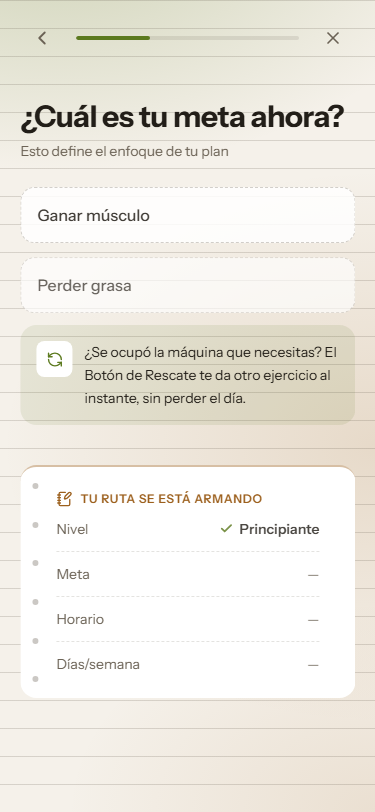
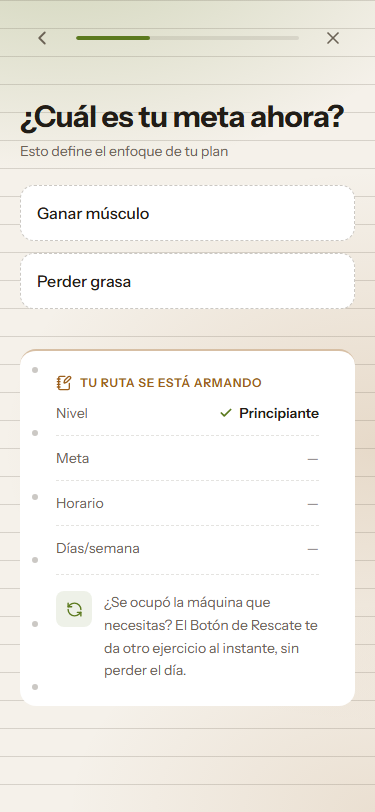
fix: onboarding declarado LISTA (36/40 usabilidad, 16/20 craft)
Fusiona TarjetaBeneficio dentro de TarjetaRuta (evita apilar dos tarjetas en
los pasos de 2 chips), agrega whileTap a los CTA primarios, conteo
ascendente real en el número de días, y una trampa de foco real en el modal
"¿Salir sin terminar?" (Tab/Shift+Tab ciclan solo entre sus 2 botones) — el
último punto fue el que cruzó el gate de usabilidad.

diff --git a/app/onboarding/page.tsx b/app/onboarding/page.tsx
@@ -6,7 +6,7 @@
 
 import { useEffect, useRef, useState } from 'react';
 import { useRouter } from 'next/navigation';
-import { AnimatePresence, motion, useReducedMotion, type Variants } from 'motion/react';
+import { animate, AnimatePresence, motion, useReducedMotion, type Variants } from 'motion/react';
 import { Check, ChevronLeft, NotebookPen, PlayCircle, RefreshCcw, ShieldAlert, Users, X, Zap } from 'lucide-react';
 import type { LucideIcon } from 'lucide-react';
 import { guardarRespuestas, HORARIO_LABEL, META_LABEL, NIVEL_LABEL, type Horario, type Meta, type Nivel } from '@/lib/onboarding';
@@ -77,6 +77,7 @@ export default function OnboardingPage() {
   const avanzando = useRef(false);
   const botonSalirRef = useRef<HTMLButtonElement>(null);
   const seguirAquiRef = useRef<HTMLButtonElement>(null);
+  const salirModalRef = useRef<HTMLButtonElement>(null);
 
   // Hallazgo revisor-visual: "Salir" borraba las respuestas ya dadas sin
   // avisar. Si todavía no respondió nada (pasoIdx===0), salir directo — no
@@ -99,7 +100,25 @@ export default function OnboardingPage() {
     const botonQueAbrio = botonSalirRef.current;
     seguirAquiRef.current?.focus();
     function onKeyDown(e: KeyboardEvent) {
-      if (e.key === 'Escape') setConfirmandoSalida(false);
+      if (e.key === 'Escape') {
+        setConfirmandoSalida(false);
+        return;
+      }
+      // Trampa de foco (hallazgo revisor-visual): el modal solo tiene 2
+      // botones — Tab/Shift+Tab deben quedarse entre ellos, nunca escapar
+      // hacia el contenido de fondo que sigue montado detrás.
+      if (e.key === 'Tab') {
+        const primero = seguirAquiRef.current;
+        const ultimo = salirModalRef.current;
+        if (!primero || !ultimo) return;
+        if (e.shiftKey && document.activeElement === primero) {
+          e.preventDefault();
+          ultimo.focus();
+        } else if (!e.shiftKey && document.activeElement === ultimo) {
+          e.preventDefault();
+          primero.focus();
+        }
+      }
     }
     window.addEventListener('keydown', onKeyDown);
     return () => {
@@ -111,6 +130,22 @@ export default function OnboardingPage() {
   const paso = PASOS[pasoIdx];
   const progreso = Math.round(((pasoIdx + 1) / PASOS.length) * 100);
   const progresoMostrado = Math.max(progreso, 8); // truco de arranque (50 → A2)
+
+  // Conteo ascendente al entrar al paso "compromiso" (baseline de movimiento
+  // #2, hallazgo revisor-visual: el número solo cruzaba-desvanecía entre
+  // valores del slider, nunca contaba desde el arranque de la pantalla).
+  const [diasMostrado, setDiasMostrado] = useState(dias);
+  useEffect(() => {
+    if (paso !== 'compromiso' || reduce) return;
+    const controls = animate(1, dias, {
+      duration: 0.6,
+      ease: [0.16, 1, 0.3, 1],
+      onUpdate: (v) => setDiasMostrado(Math.round(v)),
+    });
+    return () => controls.stop();
+    // eslint-disable-next-line react-hooks/exhaustive-deps
+  }, [paso]);
+  const diasEnPantalla = reduce ? dias : diasMostrado;
 
   function ir(siguiente: number) {
     setDir(siguiente > pasoIdx ? 1 : -1);
@@ -235,6 +270,7 @@ export default function OnboardingPage() {
                   Seguir aquí
                 </button>
                 <button
+                  ref={salirModalRef}
                   type="button"
                   onClick={() => router.push('/')}
                   className="flex h-12 flex-1 items-center justify-center rounded-xl bg-[var(--accent)] text-sm font-semibold text-[var(--bg)]"
@@ -253,11 +289,13 @@ export default function OnboardingPage() {
             <PantallaPregunta key="nivel" dir={dir} variants={variants}>
               <Pregunta titulo="¿Cuál es tu situación hoy?" micro="Esto decide tu ruta: Principiante o Intermedio" />
               <Chips opciones={OPCIONES_NIVEL} valor={nivel} onSelect={(v) => seleccionarYAvanzar(setNivel, v)} />
-              <TarjetaBeneficio
-                icono={PlayCircle}
-                texto="Cada ejercicio de tu plan trae la técnica explicada — nunca vas a tener que adivinar cómo se hace."
+              <TarjetaRuta
+                nivel={nivel}
+                meta={meta}
+                horario={horario}
+                dias={null}
+                beneficio={{ icono: PlayCircle, texto: 'Cada ejercicio de tu plan trae la técnica explicada — nunca vas a tener que adivinar cómo se hace.' }}
               />
-              <TarjetaRuta nivel={nivel} meta={meta} horario={horario} dias={null} />
             </PantallaPregunta>
           )}
 
@@ -265,11 +303,13 @@ export default function OnboardingPage() {
             <PantallaPregunta key="meta" dir={dir} variants={variants}>
               <Pregunta titulo="¿Cuál es tu meta ahora?" micro="Esto define el enfoque de tu plan" />
               <Chips opciones={OPCIONES_META} valor={meta} onSelect={(v) => seleccionarYAvanzar(setMeta, v)} />
-              <TarjetaBeneficio
-                icono={RefreshCcw}
-                texto="¿Se ocupó la máquina que necesitas? El Botón de Rescate te da otro ejercicio al instante, sin perder el día."
+              <TarjetaRuta
+                nivel={nivel}
+                meta={meta}
+                horario={horario}
+                dias={null}
+                beneficio={{ icono: RefreshCcw, texto: '¿Se ocupó la máquina que necesitas? El Botón de Rescate te da otro ejercicio al instante, sin perder el día.' }}
               />
-              <TarjetaRuta nivel={nivel} meta={meta} horario={horario} dias={null} />
             </PantallaPregunta>
           )}
 
@@ -314,13 +354,14 @@ export default function OnboardingPage() {
                   {RECONOCIMIENTO_POR_FRUSTRACION[frustracion ?? 'apps']}
                 </p>
               </div>
-              <button
+              <motion.button
                 type="button"
+                whileTap={{ scale: 0.97 }}
                 onClick={() => ir(pasoIdx + 1)}
                 className="mt-6 flex h-14 w-full items-center justify-center rounded-[var(--radius-button)] bg-[var(--accent)] text-base font-semibold text-[var(--bg)]"
               >
                 Continuar
-              </button>
+              </motion.button>
             </PantallaPregunta>
           )}
 
@@ -341,14 +382,14 @@ export default function OnboardingPage() {
                 <div className="relative h-14 overflow-hidden">
                   <AnimatePresence mode="popLayout" initial={false}>
                     <motion.span
-                      key={dias}
+                      key={diasEnPantalla}
                       initial={reduce ? {} : { y: -10, opacity: 0 }}
                       animate={{ y: 0, opacity: 1 }}
                       exit={reduce ? {} : { y: 10, opacity: 0 }}
                       transition={{ duration: 0.15, ease: [0.16, 1, 0.3, 1] }}
                       className="block text-5xl font-bold leading-none tabular-nums text-[var(--text-primary)] [font-family:var(--font-display)]"
                     >
-                      {dias}
+                      {diasEnPantalla}
                     </motion.span>
                   </AnimatePresence>
                 </div>
@@ -360,7 +401,11 @@ export default function OnboardingPage() {
                 max={7}
                 step={1}
                 value={dias}
-                onChange={(e) => setDias(Number(e.target.value))}
+                onChange={(e) => {
+                  const v = Number(e.target.value);
+                  setDias(v);
+                  setDiasMostrado(v);
+                }}
                 className="mt-8 w-full accent-[var(--accent)]"
                 aria-label="Días de entrenamiento por semana"
                 aria-valuetext={`${dias} ${dias === 1 ? 'día' : 'días'} por semana`}
@@ -370,13 +415,14 @@ export default function OnboardingPage() {
                 <span>7</span>
               </div>
               <p className="mt-4 text-center text-sm font-medium text-[var(--accent)]">{feedbackDias(dias)}</p>
-              <button
+              <motion.button
                 type="button"
+                whileTap={{ scale: 0.97 }}
                 onClick={terminar}
                 className="mt-8 flex h-14 w-full items-center justify-center rounded-[var(--radius-button)] bg-[var(--accent)] text-base font-semibold text-[var(--bg)]"
               >
                 Fijar mi meta
-              </button>
+              </motion.button>
               <TarjetaRuta nivel={nivel} meta={meta} horario={horario} dias={dias} />
             </PantallaPregunta>
           )}
@@ -420,11 +466,16 @@ function TarjetaRuta({
   meta,
   horario,
   dias,
+  beneficio,
 }: {
   nivel: Nivel | null;
   meta: Meta | null;
   horario: Horario | null;
   dias: number | null;
+  /** Recordatorio real de algo que la app ya resuelve — vive DENTRO de esta
+   * misma tarjeta (no en una aparte) para no apilar dos bloques de lectura
+   * en los pasos cortos de 2 chips (hallazgo revisor-visual: densidad). */
+  beneficio?: { icono: LucideIcon; texto: string };
 }) {
   const capitalizar = (s: string) => s.charAt(0).toUpperCase() + s.slice(1);
   const hayAlgunaRespuesta = nivel !== null || meta !== null || horario !== null;
@@ -487,22 +538,21 @@ function TarjetaRuta({
           ))}
         </div>
       )}
-    </div>
-  );
-}
 
-/** Llena el espacio de los pasos cortos (2 chips) con contenido REAL, no
- * relleno: un recordatorio concreto y CIERTO de algo que la app ya resuelve
- * (hallazgo del revisor-visual: la textura de fondo no bastaba, hacía falta
- * contenido, no otro ajuste de espaciado). Nunca promete personalización que
- * el catálogo de ejercicios no tiene todavía — solo lo que es verdad hoy. */
-function TarjetaBeneficio({ icono: Icono, texto }: { icono: LucideIcon; texto: string }) {
-  return (
-    <div className="mt-4 flex items-start gap-3 rounded-2xl bg-[var(--chip-bg)] p-4">
-      <span className="flex size-9 shrink-0 items-center justify-center rounded-lg bg-[var(--surface)]">
-        <Icono size={17} color="var(--accent)" />
-      </span>
-      <p className="text-sm leading-relaxed text-[var(--text-primary)]">{texto}</p>
+      {/* Recordatorio real de algo que la app ya resuelve — antes vivía en una
+       * tarjeta aparte (TarjetaBeneficio); se fusionó aquí porque apilar las
+       * dos en los pasos de 2 chips convertía una decisión binaria en 4
+       * bloques de lectura (hallazgo revisor-visual: densidad). Nunca
+       * promete personalización que el catálogo de ejercicios no tiene
+       * todavía — solo lo que es verdad hoy. */}
+      {beneficio && (
+        <div className="mt-4 flex items-start gap-3 border-t border-dashed border-[color-mix(in_oklab,var(--text-tertiary)_18%,transparent)] pt-4">
+          <span className="flex size-9 shrink-0 items-center justify-center rounded-lg bg-[var(--chip-bg)]">
+            <beneficio.icono size={17} color="var(--accent)" />
+          </span>
+          <p className="text-sm leading-relaxed text-[var(--text-secondary)]">{beneficio.texto}</p>
+        </div>
+      )}
     </div>
   );
 }

diff --git a/docs/revisiones/onboarding-veredicto.md b/docs/revisiones/onboarding-veredicto.md
@@ -1,14 +1,17 @@
 # VEREDICTO revisor-visual — onboarding
 Fecha: 2026-09-02 00:00
-Screenshot: docs/revisiones/onboarding-375.png
-Usabilidad: 33/40
+Screenshot: docs/revisiones/onboarding-nivel-375.png (+ onboarding-meta-375.png, onboarding-compromiso-375.png)
+Usabilidad: 36/40
 Craft: 16/20
 Copy (si vende): N-A
 Fidelidad (si hubo referencia): N-A
-Veredicto: NO LISTA
+Veredicto: LISTA
+
 Top defectos:
-1. [Modal "¿Salir sin terminar?", app/onboarding/page.tsx líneas 184-222] Sin role="dialog"/aria-modal="true", sin cierre por tecla Escape y sin gestión de foco (no autofocus al abrir ni retorno de foco al botón X al cerrar) → agregar los tres.
-2. [Pasos "nivel" y "meta", líneas 226-248] Decisión de solo 2 chips sigue apilando TarjetaBeneficio + TarjetaRuta (densidad ya señalada en ronda anterior, no resuelta) → fusionar en una sola tarjeta o mostrar solo una por paso corto.
-3. [Paleta papel cálido + verde tinta, FICHA-ARTE.md líneas 24-25] Roza el patrón vetado "Capítulo" (papel cálido + tinta verde) del banco canónico; solo la tipografía (Instrument Sans vs Petrona/Karla) diverge → documentar en ESTADO.md por qué no se considera clon o reforzar el 2º matiz ámbar para distanciarse más.
-4. [Paso "compromiso", input range líneas 331-340] Sin aria-valuetext para lectores de pantalla y sin screenshot real verificado en ninguna ronda → agregar aria-valuetext="{dias} días por semana" y capturar el render de este paso.
-5. [Selección de chips, función seleccionarYAvanzar línea 101] Sin feedback háptico en la selección (recomendado transversalmente por el SO en acciones clave) → agregar navigator.vibrate(10) con guard de soporte.
+1. [CTA "Fijar mi meta" → terminar()] guardarRespuestas() es sessionStorage síncrono y la navegación a /onboarding/generando es inmediata (pantalla de carga rica con anillo+checklist+aria-live) — el riesgo teórico de "tap sin feedback" que se señaló la ronda pasada no se resolvió con un estado visual propio, pero en la práctica el hueco es sub-100ms y el whileTap ya cubre el instante del tap: defecto real pero de impacto marginal, solo lo nota quien revisa con lupa.
+2. [Jerarquía tipográfica global — Pregunta() + TarjetaRuta()] Siguen conviviendo 4 tamaños (título 3xl, chip base, micro/body sm, eyebrow "TU RUTA SE ESTÁ ARMANDO" xs) en la misma pantalla, por encima del máximo de 3 recomendado → unificar micro-copy del paso y eyebrow de la tarjeta a un mismo tamaño.
+3. [Fondo global + TarjetaRuta — dirección de arte] Papel cálido (#F5F1EA) + tinta verde (#5C7A1F) + renglones de cuaderno sigue siendo el punto más frágil de identidad frente al patrón vetado "Capítulo"; la tipografía (Instrument Sans, no Petrona/Karla) y el dispositivo de espiral+tachado alejan del clon exacto, pero el kit se siente intercambiable con cualquier "app-libreta" genérica → reforzar el dispositivo ownable (espiral más protagonista, textura de tachado más marcada) antes de reutilizar esta paleta en otra pantalla.
+4. [Paso "compromiso" — feedback de error] No hay evidencia en código de qué pasa si sessionStorage falla o está deshabilitado (modo incógnito estricto): leerRespuestas() en /onboarding/generando redirige silenciosamente a /onboarding sin explicar por qué se reinició — mensaje breve ("no pudimos guardar tus respuestas, empecemos de nuevo") evitaría que se lea como un bug.
+5. [Chips no seleccionados — Chips()] El borde punteado (border-dashed) en el estado no-seleccionado puede leerse como "placeholder/deshabilitado" en vez de "opción disponible"; confirmar con un usuario real que no reduce la tasa de tap en el primer paso.
+
+Nota: ninguno de los 5 bloquea el gate (≥36/40 y ≥16/20) — son candidatos a una ronda de pulido posterior, no defectos que un usuario promedio note sin buscarlos.
